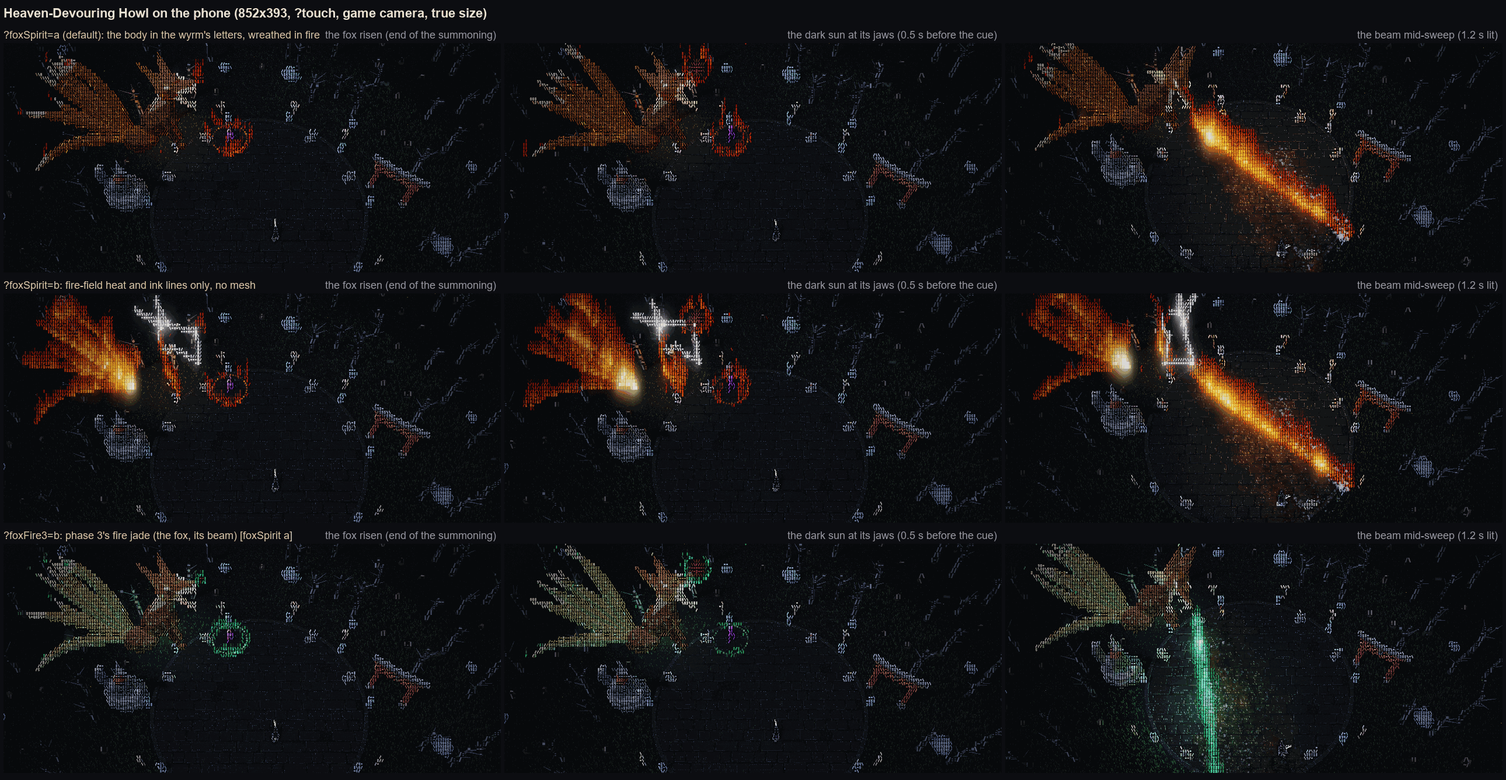
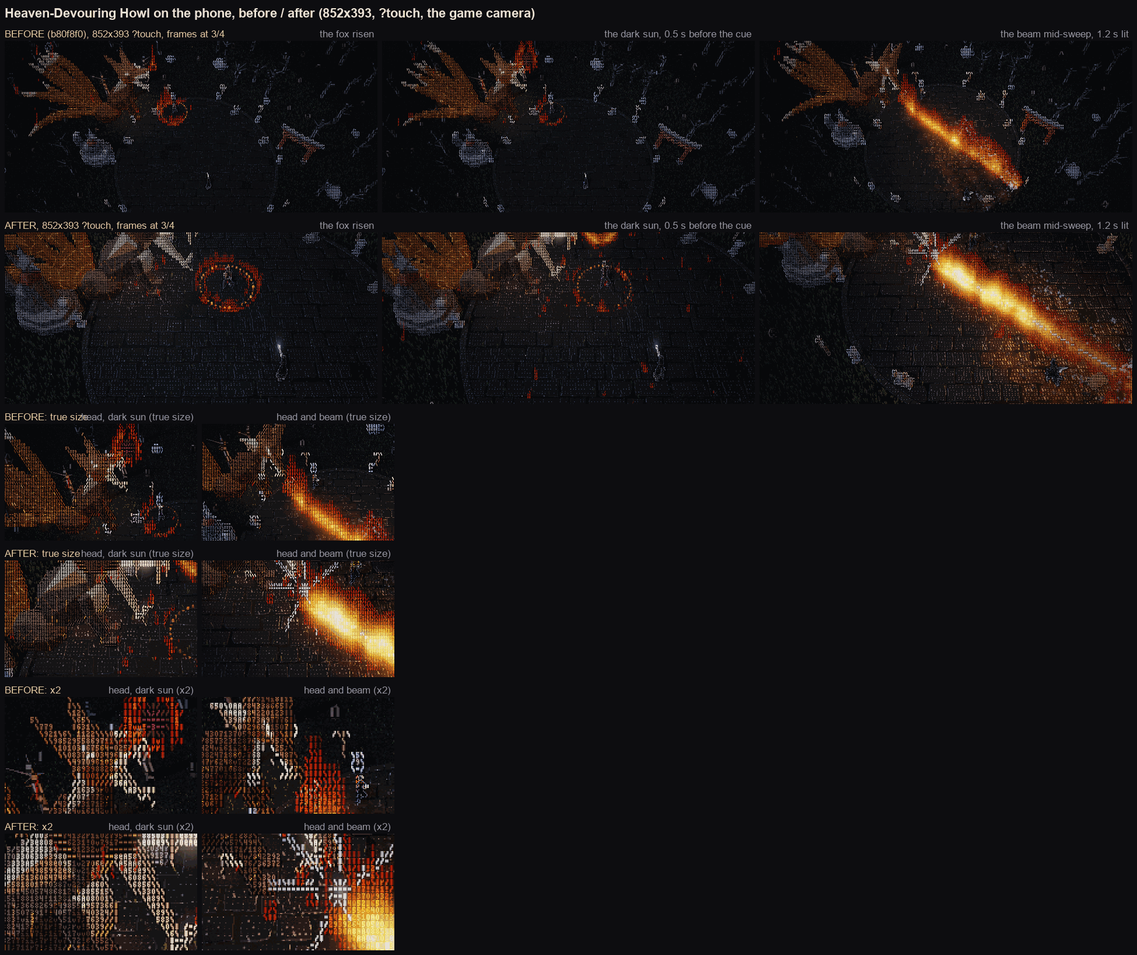
docs: the Howl's second pass: the fox's head, the beam's width, the summoning point; before / after sheets

diff --git a/docs/STYLE.md b/docs/STYLE.md
@@ -1243,19 +1243,27 @@ art path at 720p he is still about 12 letter rows; b survives it by its colour, 
   thrown out of it, a crisp ring of ink opening on the screen's plane, a wisp of the orb's fire (~22 blobs:
   five come at once in a Round).
 - **The Nine-Tailed Fox** (Heaven-Devouring Howl; `spirit.js`, `fxBeam.js`): a creature, so a body in the
-  wyrm's art path (`?foxSpirit=a`): low-poly, flat facets, a charcoal-rust hide lit from below by its fire,
-  pale fox marks (the muzzle, the cheeks, the tail tips), white-hot eye slits, a white-hot maw, pale fangs,
-  burning tail veins. It stands SIDE-ON to the camera (facing east or west, whichever the line runs
-  toward) and leans back toward it (a fox seen from the front and above prints as a lump: the terrace's
-  lesson), drawn 1.15x tall with its head at 2x (at the game camera the head is the fox); only the head
-  turns (30° at most). Its tails fan low and back so the head stands against the grass. Wreathed in
-  phase 3's fire at its edges and tail tips; it goes up in embers from the tail tips to the body.
-  `?foxSpirit=b`: the same skeleton drawn only as heat and ink lines. The summoning's ring of script:
-  two circles inked on the floor, one-cell glyphs of script between them. The dark sun: a black-dyed
-  steel disc with a hot rim, pulled toward the camera. The strip's mark: hazard specks heating. The beam:
-  a three-line white core and a body of heat whose edge boils, a fountain where it meets the floor, the
-  floor charred under it. COST: the fire field's peak through the Howl 1300 - 1500 of 6000 blobs; 75 → 84
-  draw calls with the fox risen and the beam lit.
+  wyrm's art path (`?foxSpirit=a`): low-poly, flat facets. THE HEAD IS THE SUBJECT (the second pass, the
+  reviewer: "a fan of feathers, not a fox"): drawn 2.3x, a clean wedge in profile (skull, the brow's long
+  slope, a long muzzle), broad pointed ears pale inside, a lower jaw that opens wide over a white-hot maw,
+  long white-hot eye slits, pale fangs; the head and body charcoal (little of its fire's light on them)
+  with a PALE throat and breast, so the head separates from the tails. Nine separate S-curved plumes
+  fanned low and back behind it, a gap between each, burning (glowing veins), each tipped pale and with a
+  bright blob of fire: the tails are the fire, the body is not. It stands SIDE-ON to the camera (facing
+  east or west, whichever the line runs toward) and leans back toward it (a fox seen from the front and
+  above prints as a lump: the terrace's lesson), drawn 1.1x tall; only the head turns (30° at most). He
+  summons it 10 m from the hero (not at the far rim) and the camera leans toward it and keeps the ears'
+  tips: at 1280x720 the head is ~250 px long and whole in the frame from every side. It goes up in
+  embers from the tail tips to the body. `?foxSpirit=b`: the same head as an outline of steel ink, the
+  tails as lines and heat, the body as heat only. The summoning's ring of script: two circles inked on the
+  floor, one-cell glyphs of script between them. The dark sun (~2.3 m across): a black-dyed steel disc
+  with a thick ragged rim of fire, pulled toward the camera, motes streaming in from the whole arena;
+  the light drops to 0.72. The strip's mark: hazard specks heating. The beam: a bulb of light at the
+  jaws, a five-line core (white-hot middle) on the letter grid, a body of heat five rows across its whole
+  3.6 m whose edge boils, a white flash its first 0.15 s, a fountain where it meets the floor, the floor
+  lit and charred and a scar of low heat that lingers a moment. COST: the fire field's peak through the
+  Howl ~1600 blobs in the browser (2350 headless, the hero standing in it) of 6000; 72 → 81 draw calls
+  with the fox risen and the beam lit (six materials, batched, no shadow).
 - **The nine-tailed fox** (phase 3, `mantle(d, dt, k)`): a fox's head over his (tall ears, cheek ruffs, a
   muzzle over his face), a mane, and `d.tails` tails, each a lagging chain with a pale tip, fanned over
   a half-wheel laid in the CAMERA's plane (as the ears are spread: a fan laid in the scene merged into

diff --git a/docs/COMBAT.md b/docs/COMBAT.md
@@ -2033,10 +2033,13 @@ with him.
 
 ### The Howl (phase 3, `foxVerdict`; beam.js, tuningBeam.js)
 
-Heaven-Devouring Howl. He flits to the rim point farthest from the hero (11.5 m out); both palms on the
-paving, a ring of script burns out round him and the Nine-Tailed Fox rises out of a pool of fire behind
-him (a creature body, side-on to the camera); the terrace's light drops and the camera pulls back so the
-hero and the fox's head stay in frame. ONE red beat whose windup is the summoning and the charge (2.4 +
+Heaven-Devouring Howl. He flits 10 m from the hero, away from him through the middle (11.5 m from the
+middle at most; not the far rim: the hero and the fox's head then share one frame near the fight's own
+camera distance); both palms on the paving, a ring of script burns out round him and the Nine-Tailed Fox
+rises out of a pool of fire behind him (a creature body, side-on to the camera, its head the subject);
+the terrace's light drops (to 0.72 through the charge) and the camera leans toward the fox so the hero
+and the fox's head and ears stay in frame (on a phone it pulls back 4 m at most and only the hero is
+sure to stay in frame). ONE red beat whose windup is the summoning and the charge (2.4 +
 1.4 s, fixed; the darkness of a charged blow, his body darkens): a dark sun gathers at the jaws; the line
 (26 x 3.6 m from him across the terrace) is FIXED at the red cue, its ground heating; the red flare at the
 jaws 0.3 s before it fires. Lit 2.4 s (`sustain`, `selfHit`: the cue ledger holds the whole lit window as
